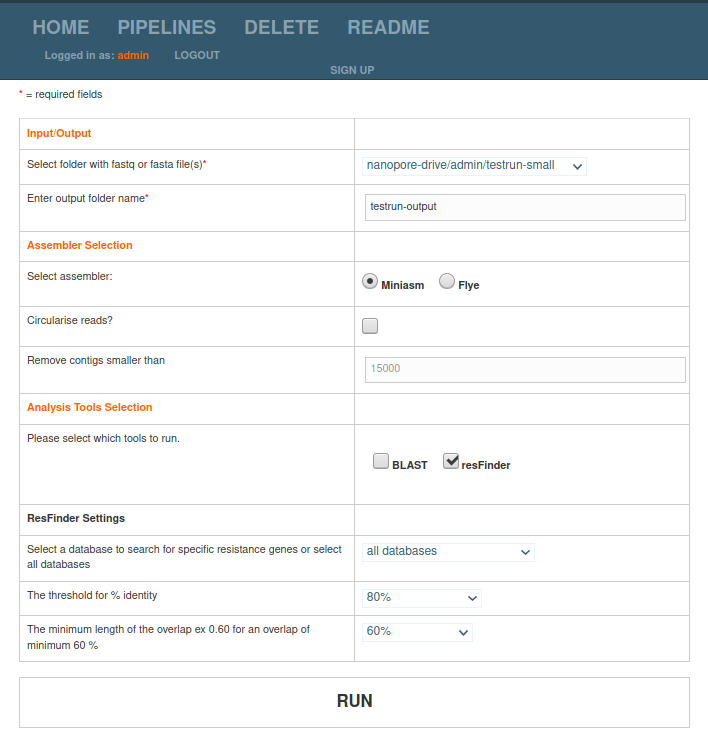
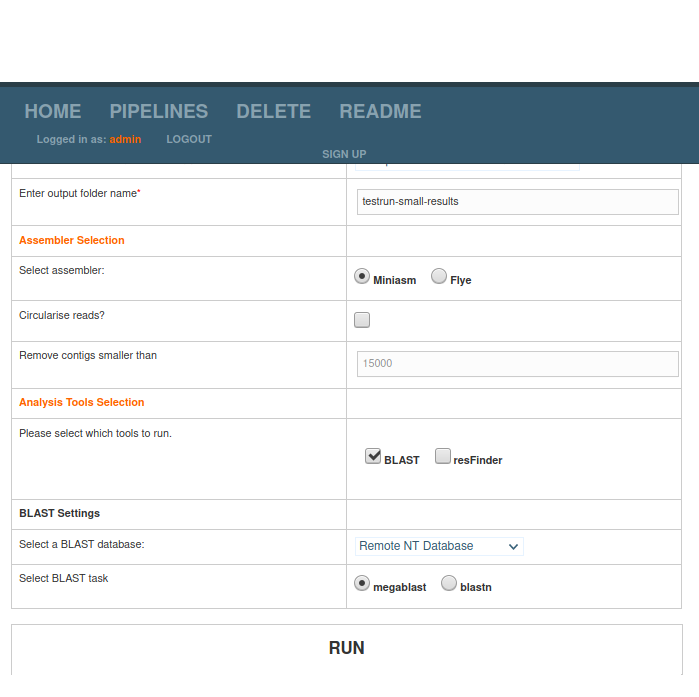
finish example

diff --git a/README.md b/README.md
@@ -69,8 +69,8 @@ In this section, we will guide you through running a pipeline on some testdata
   - Select the input folder `testdata-small`
   - Choose a name for the results directory
   - Select `miniasm` as the assembler
-  - Check the box for `resFinder` tool
-  - Leave everything else on their default settings:
+  - Check the box for `BLAST` tool
+  - Leave everything else on the default settings:
     ![](screenshot.png)
 
 5. Click **Run**
@@ -78,7 +78,11 @@ In this section, we will guide you through running a pipeline on some testdata
 6. The pipeline will take quite some time to complete
   - You can view the progress in the terminal
 
-7. Once the pipeline has finished, you will be able to view the results in the webpage.
+7. Once the pipeline has finished, you will be able to view the results in the webpage from the homepage.
+
+8. In the results page, choose the sample you are interested in to view the output report, it should look something like this:
+  ![](screenshot_results.jpg)
+
 
 
 
